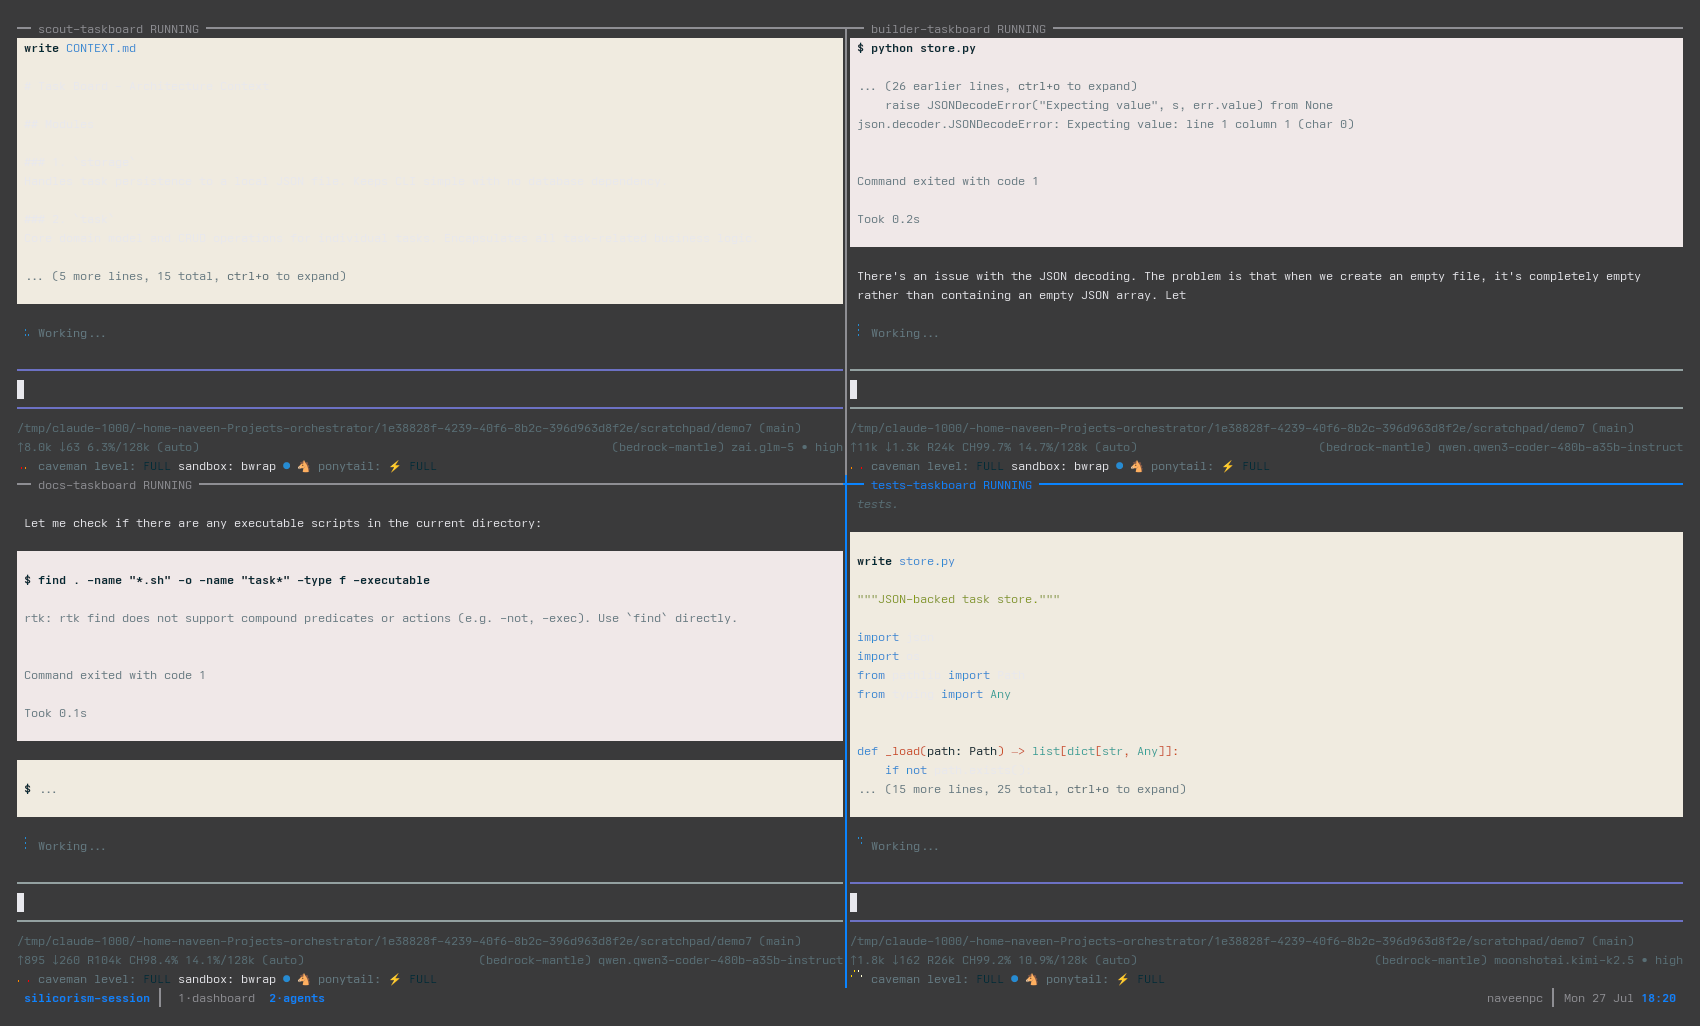
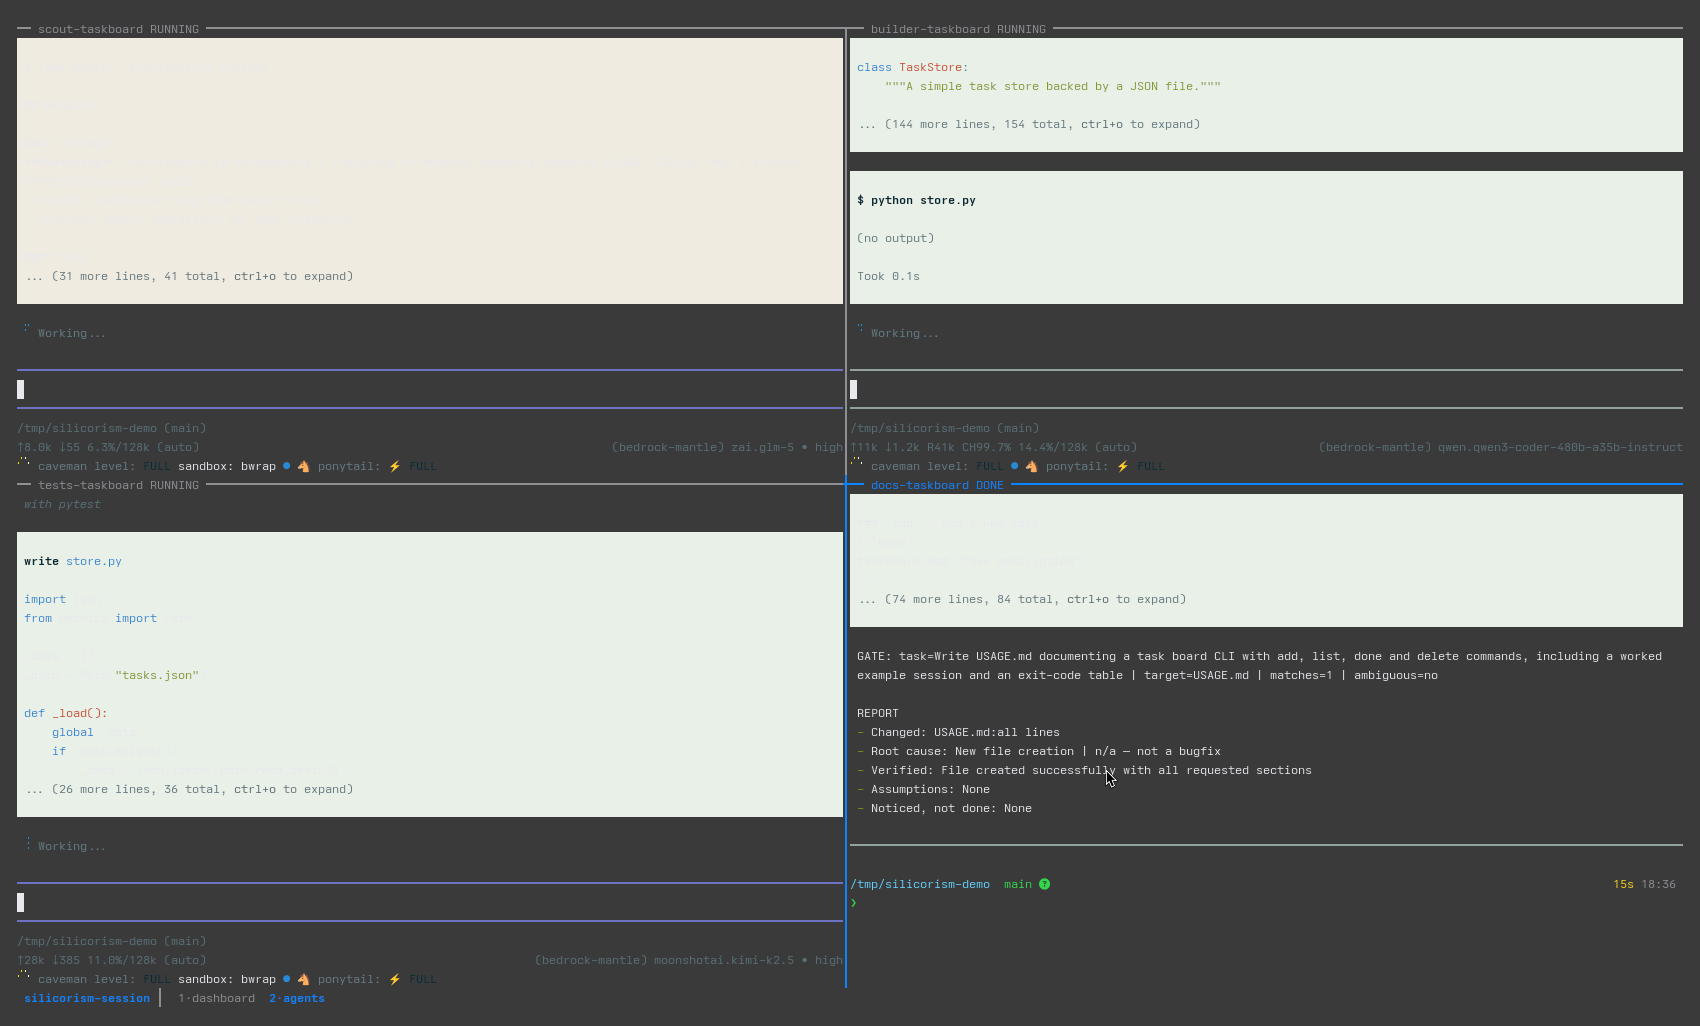
fix: close the branch review's blockers before this goes public
- init_db raced itself: concurrent callers hit 'duplicate column name' in 24
  of 25 trials, and every MCP tool call starts with init_db. The migration
  now runs inside immediate() and treats a duplicate column as already-applied;
  the schema script retries on SQLITE_BUSY. 0 of 25 trials fail now.
- launch scripts lived in a world-writable /tmp dir and are executed by the
  user's shell; the directory is now per-uid and 0700.
- _grid_windows split list-windows output on whitespace, so a user window
  named 'my agents' produced a phantom 'agents' that defeated the exact-match
  guard.
- pipe-pane records the raw repaint stream, so artifacts were ANSI soup and
  logs grew to megabytes; tails are stripped and logs trimmed after the
  artifact is read.
- the grid fallback renamed task-<id> while run_task_in_pane had created
  task-<id>-<type>, so fallback panes never showed DONE/FAILED.
- screenshots retaken from a neutral path with the hostname off.

diff --git a/tmux_orchestrator.py b/tmux_orchestrator.py
@@ -1,8 +1,9 @@
-"""tmux supervisor: a live session with a dashboard window plus one window per
-running task, streaming the agent's stdout/stderr in real time.
+"""tmux supervisor: a live session with a dashboard window plus an `agents`
+window where every running agent gets a tiled pane of its own.
 
-Pure stdlib — every tmux action is a subprocess call, so the command strings
-are unit-testable without a running server.
+The agent owns its pane's tty, so it renders its real TUI; tmux mirrors the
+pane into a per-task log. Pure stdlib — every tmux action is a subprocess call,
+so the command strings are unit-testable without a running server.
 """
 
 from __future__ import annotations
@@ -17,7 +18,11 @@ import tempfile
 import time
 
 SESSION = "silicorism-session"
-SENTINEL_DIR = os.path.join(tempfile.gettempdir(), "silicorism-sentinels")
+# Per-user: the launch scripts here are executed by the user's shell, so a
+# shared /tmp/silicorism-sentinels would let anyone pre-create it and choose
+# what runs.
+SENTINEL_DIR = os.path.join(tempfile.gettempdir(),
+                            f"silicorism-sentinels-{os.getuid()}")
 CONFIG_DIR = os.path.expanduser("~/.config/silicorism")
 LOG_DIR = os.path.join(CONFIG_DIR, "logs")
 
@@ -28,13 +33,21 @@ def log_path(task_id) -> str:
     return os.path.join(LOG_DIR, f"task-{task_id}.log")
 
 
+_ANSI = re.compile(r"\x1b\[[0-9;?]*[ -/]*[@-~]|\x1b[@-Z\\-_]|\r")
+
+
 def read_log_tail(path: str, max_chars: int = 2000) -> str:
-    """Return the tail of a captured log for artifact hand-off (empty if none)."""
+    """Tail of a captured log, escape codes stripped (empty if none).
+
+    tmux records what the pane *drew*, so the raw file is a repaint stream.
+    Handing that to the next agent as context would spend its tokens on colour
+    codes.
+    """
     try:
         data = open(path, encoding="utf-8", errors="replace").read()
     except OSError:
         return ""
-    return data[-max_chars:].strip()
+    return _ANSI.sub("", data)[-max_chars:].strip()
 
 
 def _tmux(*args: str) -> subprocess.CompletedProcess:
@@ -77,15 +90,45 @@ def mark_done(task_id, *, session: str = SESSION, failed: bool = False) -> None:
     _tmux("rename-window", "-t", _window_target(session, name), f"{name}-{suffix}")
 
 
+def mark_window_done(name: str, *, session: str = SESSION,
+                     failed: bool = False) -> None:
+    """Rename a finished task's window; the caller knows its actual name."""
+    suffix = "failed" if failed else "done"
+    _tmux("rename-window", "-t", _window_target(session, name), f"{name}-{suffix}")
+
+
+def trim_log(path: str, max_bytes: int = 262_144) -> None:
+    """Keep only the tail of a pane log.
+
+    pipe-pane records every repaint, so a half-minute agent can leave megabytes
+    behind; the tail is the only part anything reads.
+    """
+    try:
+        if os.path.getsize(path) <= max_bytes:
+            return
+        with open(path, "rb") as fh:
+            fh.seek(-max_bytes, os.SEEK_END)
+            tail = fh.read()
+        with open(path, "wb") as fh:
+            fh.write(tail)
+    except OSError:
+        pass
+
+
 def kill_session(session: str = SESSION) -> None:
     _tmux("kill-session", "-t", session)
 
 
 # --- native CLI execution in a live pane -----------------------------------
 
+def _sentinel_dir() -> str:
+    """Create the sentinel/script dir private to this user (0700)."""
+    os.makedirs(SENTINEL_DIR, mode=0o700, exist_ok=True)
+    return SENTINEL_DIR
+
+
 def sentinel_path(task_id) -> str:
-    os.makedirs(SENTINEL_DIR, exist_ok=True)
-    return os.path.join(SENTINEL_DIR, f"task-{task_id}.exit")
+    return os.path.join(_sentinel_dir(), f"task-{task_id}.exit")
 
 
 def _launch_script(task_id, command: str, sentinel: str) -> str:
@@ -103,8 +146,7 @@ def _launch_script(task_id, command: str, sentinel: str) -> str:
     instead of a live agent. Logging is tmux's job now (see _log_pane).
     The sentinel is written atomically via mv.
     """
-    os.makedirs(SENTINEL_DIR, exist_ok=True)
-    path = os.path.join(SENTINEL_DIR, f"task-{task_id}.sh")
+    path = os.path.join(_sentinel_dir(), f"task-{task_id}.sh")
     tmp = shlex.quote(sentinel + ".tmp")
     fin = shlex.quote(sentinel)
     with open(path, "w", encoding="utf-8") as fh:
@@ -144,7 +186,10 @@ def run_task_in_pane(task_id, task_type: str, cwd: str, command: str,
 # --- agents grid ------------------------------------------------------------
 
 GRID_WINDOW = "agents"
-GRID_MAX = int(os.environ.get("SILICORISM_GRID_MAX") or 4)
+try:
+    GRID_MAX = int(os.environ.get("SILICORISM_GRID_MAX") or 4)
+except ValueError:  # a typo in an env var must not break every import
+    GRID_MAX = 4
 RUNNING, DONE, FAILED = "RUNNING", "DONE", "FAILED"
 _MARKERS = (RUNNING, DONE, FAILED)
 # Pane border doubles as the label bar: "<agent-id> <status>". The label lives
@@ -160,8 +205,7 @@ _GRID_RE = re.compile(rf"^{re.escape(GRID_WINDOW)}(?:-(\d+))?$")
 @contextlib.contextmanager
 def _grid_lock():
     """Cross-process lock around pane placement (flock, released on close)."""
-    os.makedirs(SENTINEL_DIR, exist_ok=True)
-    fh = open(os.path.join(SENTINEL_DIR, "grid.lock"), "w")
+    fh = open(os.path.join(_sentinel_dir(), "grid.lock"), "w")
     try:
         fcntl.flock(fh, fcntl.LOCK_EX)
         yield
@@ -174,7 +218,9 @@ def _grid_windows(session: str) -> list[str]:
     r = _tmux("list-windows", "-t", session, "-F", "#{window_name}")
     if r.returncode != 0:
         return []
-    return [n for n in r.stdout.split() if _GRID_RE.match(n)]
+    # splitlines, not split: a user window named "my agents" would otherwise
+    # yield a phantom "agents" that passes the exact-match test.
+    return [n for n in r.stdout.splitlines() if _GRID_RE.match(n)]
 
 
 def _pane_count(session: str, window: str) -> int:

diff --git a/worker.py b/worker.py
@@ -80,6 +80,10 @@ def _place_pane(conn, task, command: str, sentinel: str, logfile: str):
     except Exception:  # noqa: BLE001 - the grid is a viewport, never a dependency
         window = tmux.run_task_in_pane(tid, task["task_type"], cwd, command,
                                        sentinel, logfile=logfile)
+        try:  # a retry after a grid run would otherwise keep the closed pane
+            db.set_pane_target(conn, tid, window)
+        except Exception:  # noqa: BLE001
+            pass
         return window, None
     # Recorded only after the launch succeeded: a failed write here must not
     # re-enter the fallback, which would start a second agent for one task.
@@ -90,13 +94,13 @@ def _place_pane(conn, task, command: str, sentinel: str, logfile: str):
     return window, pane
 
 
-def _mark_pane(task_id, pane, *, failed: bool) -> None:
+def _mark_pane(task_id, pane, *, failed: bool, window=None) -> None:
     """Retitle the grid pane, or the legacy window when there is no pane id."""
     try:
         if pane:
             tmux.mark_pane_done(pane, failed=failed)
-        else:
-            tmux.mark_done(task_id, failed=failed)
+        elif window:  # run_task_in_pane names it task-<id>-<type>, not task-<id>
+            tmux.mark_window_done(window, failed=failed)
     except Exception:  # noqa: BLE001
         pass
 
@@ -120,11 +124,13 @@ def _run_native(conn, task, agent_id, command: str) -> None:
                     or tmux.read_log_tail(logf)
                     or f"native pane {win} exit 0")
         db.complete_task(conn, tid, artifact=artifact)
+        # pipe-pane records every repaint; four agents left 13 MB behind once.
+        tmux.trim_log(logf)
         db.log(conn, tid, agent_id, f"completed (native): {win}")
     except Exception:
-        _mark_pane(tid, pane, failed=True)
+        _mark_pane(tid, pane, failed=True, window=win)
         raise
-    _mark_pane(tid, pane, failed=False)
+    _mark_pane(tid, pane, failed=False, window=win)
 
 
 def _open_task_window(db_path, task) -> None:

diff --git a/db.py b/db.py
@@ -122,19 +122,47 @@ _MIGRATIONS = (
 )
 
 
+def _retry_busy(fn, *, attempts: int = 8, base: float = 0.02):
+    """Call fn(), retrying SQLITE_BUSY with the same backoff immediate() uses."""
+    for i in range(attempts):
+        try:
+            return fn()
+        except sqlite3.OperationalError as err:
+            if not _is_busy(err) or i == attempts - 1:
+                raise
+            time.sleep(base * (2 ** i) + random.random() * base)
+
+
 def _migrate(conn: sqlite3.Connection) -> None:
     have = {r["name"] for r in conn.execute("PRAGMA table_info(tasks)")}
     for col, typ in _MIGRATIONS:
-        if col not in have:
+        if col in have:
+            continue
+        try:
             conn.execute(f"ALTER TABLE tasks ADD COLUMN {col} {typ}")
+        except sqlite3.OperationalError as err:
+            # A racing process added it between our read and our write; that is
+            # the outcome we wanted either way.
+            if "duplicate column" not in str(err).lower():
+                raise
 
 
 def init_db(db_path: str | Path) -> None:
+    """Create or migrate the schema. Safe to call from several processes at once.
+
+    Every MCP tool call starts with this, so the DDL has to serialise like the
+    rest of the writes — otherwise two workers ALTER the same column and one of
+    them dies with "duplicate column name".
+    """
     Path(db_path).parent.mkdir(parents=True, exist_ok=True)
     conn = connect(db_path)
     try:
-        conn.executescript(_SCHEMA)
-        _migrate(conn)
+        # executescript commits any open transaction, so it cannot run inside
+        # immediate(); every statement in _SCHEMA is IF NOT EXISTS, so the only
+        # concurrent failure mode is the DDL lock, which is worth retrying.
+        _retry_busy(lambda: conn.executescript(_SCHEMA))
+        with immediate(conn) as c:
+            _migrate(c)
     finally:
         conn.close()
 

diff --git a/tests/test_grid.py b/tests/test_grid.py
@@ -182,7 +182,7 @@ def test_worker_falls_back_to_a_window_when_the_grid_fails(tmp_path):
     assert legacy.call_count == 1
     stored = conn.execute("SELECT pane_target FROM tasks WHERE id=?",
                           (tid,)).fetchone()["pane_target"]
-    assert stored is None
+    assert stored == "task-1-pi"  # the window, since there is no pane
     conn.close()
 
 
@@ -260,3 +260,32 @@ def test_pane_placement_is_serialised_across_processes():
     assert order == ["enter", "exit"] * 4, order
     for i in range(4):
         os.remove(os.path.join(tmux.SENTINEL_DIR, f"task-{i}.sh"))
+
+
+def test_a_user_window_named_my_agents_is_not_seen_as_the_grid():
+    """list-windows output is line-oriented; splitting on spaces invents windows."""
+    fake = FakeTmux(existing=["dashboard", "my agents", "notes"])
+    assert tmux._grid_windows("s") == []
+
+
+def test_log_tails_are_stripped_of_escape_codes(tmp_path):
+    """tmux logs what the pane drew, so the raw file is a repaint stream."""
+    log = tmp_path / "t.log"
+    log.write_text("\x1b[38;2;108;113;196m─\x1b[39m CONTEXT.md written\r\n")
+    assert tmux.read_log_tail(str(log)) == "─ CONTEXT.md written"
+
+
+def test_trim_log_keeps_the_tail(tmp_path):
+    log = tmp_path / "big.log"
+    log.write_text("x" * 5000 + "END")
+    tmux.trim_log(str(log), max_bytes=1000)
+    body = log.read_text()
+    assert len(body) == 1000 and body.endswith("END")
+
+
+def test_the_script_directory_is_private_to_this_user():
+    """The shell executes these scripts; a shared /tmp dir is a foothold."""
+    import stat
+    d = tmux._sentinel_dir()
+    assert str(os.getuid()) in d
+    assert stat.S_IMODE(os.stat(d).st_mode) & 0o077 == 0

diff --git a/tests/test_workflow.py b/tests/test_workflow.py
@@ -375,7 +375,8 @@ def test_worker_native_completes_and_fails(mock_tmux, tmp_path):
     mock_tmux.wait_for_exit.return_value = 0
     worker._run_native(conn, task, "w0", "pi -p 'x'")
     assert db.counts(conn)["completed"] == 1
-    mock_tmux.mark_done.assert_called_with(tid, failed=False)
+    # fallback window is named task-<id>-<type>, so it must be renamed by name
+    mock_tmux.mark_window_done.assert_called_with("task-1-pi", failed=False)
     # captured log tail becomes the artifact for downstream deps
     art = conn.execute("SELECT output_artifact FROM tasks WHERE id=?",
                        (tid,)).fetchone()["output_artifact"]

diff --git a/silicorism_tools.py b/silicorism_tools.py
@@ -338,7 +338,9 @@ def verify_status(conn) -> dict:
     """
     counts = db.counts(conn)
     blocked = _dead_task_ids(db.all_tasks(conn))
-    active = counts["pending"] + counts["processing"] - len(blocked)
+    # counts and all_tasks are separate reads; a row inserted between them
+    # must not drive this negative and hide "nothing left to do".
+    active = max(counts["pending"] + counts["processing"] - len(blocked), 0)
     failures = []
     for r in conn.execute(
             "SELECT id, task_type, output_artifact FROM tasks "

diff --git a/silicorism_mcp.py b/silicorism_mcp.py
@@ -319,7 +319,8 @@ TOOLS = [
             "properties": {
                 "db": {"type": "string"},
                 "timeout_s": {"type": "number",
-                              "description": "Max seconds to block (cap 3600)."},
+                              "description": "Max seconds to block (cap "
+                                             f"{int(silicorism_tools.WAIT_CAP_S)})."},
             },
         },
         "handler": _wait,

diff --git a/cli.py b/cli.py
@@ -142,7 +142,8 @@ def cmd_status(args) -> None:
 
 
 def cmd_submit_feature(args) -> None:
-    """Enqueue a 5-task DAG: worktree -> scout -> builder -> fixer -> cleanup."""
+    """Enqueue the standard DAG: worktree -> scout -> builder -> fixer ->
+    verify -> cleanup."""
     db.init_db(args.db)
     conn = db.connect(args.db)
     try:

diff --git a/README.md b/README.md
@@ -17,8 +17,9 @@ stays readable — the fifth agent opens `agents-2`.
 
 ![The dashboard window](docs/images/dashboard.png)
 
-Window 0 is the dashboard: the DAG as a tree, each node's model, how long it has
-been running, and which pane it is in. `q` quits, `r` redraws.
+The `dashboard` window shows the DAG as a tree: each node's model (or, for a
+gate node, its test command), how long it has been running, and which pane it is
+in. `q` quits, `r` redraws.
 
 ## Layout
 | File | Role |
@@ -79,8 +80,8 @@ loop**. `silicorism_list_skills` inventories skills (name/harness/scope/descript
 so they can be bound to DAG nodes during planning.
 
 **Orchestrator loop.** `silicorism_plan_and_submit` submits a plan **and
-auto-starts native-pane workers** in one call. Pass `prompt` for the default
-5-task pipeline, or `nodes` for a custom DAG you design — each node sets its own
+auto-starts native-pane workers** in one call. Pass `prompt` plus a
+`complexity` tier, or `nodes` for a custom DAG you design — each node sets its own
 `id`, `prompt`, `depends_on`, `harness` (`pi`/`claude`), `model`, `thinking`
 (`high`…), and `skills`. `silicorism_get_status` returns a `satisfied` verdict
 plus each failed task's artifact + last error; `silicorism_verify_and_continue`
